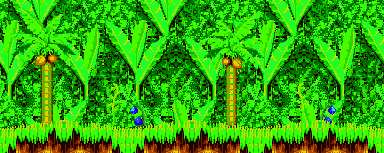
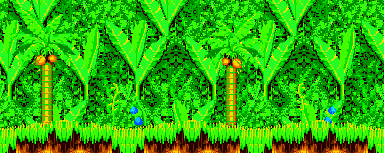
Enhance color vibrancy across Sonic sprites and Angel Island background

diff --git a/apps/sonic3clk/app.js b/apps/sonic3clk/app.js
@@ -1,7 +1,7 @@
 const vw = g.getWidth();
 const bgWidth = 384;
 
-const sonicPalette = new Uint16Array(E.toArrayBuffer(E.toFlatString(atob("AAAAAFGM171ps8JxIANABR8AFQATMBP4APiy/eD///8="))));
+const sonicPalette = new Uint16Array(E.toArrayBuffer(E.toFlatString(atob("AAAAAFGM170Dy8GJIANABd8FvwITMBP4APhJ/eD///8="))));
 const sonic = {
   bpp: 4,
   transparent: 1,
@@ -131,11 +131,13 @@ const waitingBuffers = [
   },
 ];
 
+const bgPalette = new Uint16Array(E.toArrayBuffer(E.toFlatString(atob("AAAAIEAEoAUAB+BH5CcgaYDCwPPA/uD/vwLfBf8H//8="))));
 const bg = {
   width: 384,
   height: 153,
   bpp: 4,
[1 lines of base64/hex data omitted]
+  palette: bgPalette,
[1 lines of base64/hex data omitted]
 };
 
 const topSpeed = 15;
@@ -367,7 +369,7 @@ const settingsMenu = {
   },
 };
 
-g.setTheme({ bg: "#006600", fg: "#fff", dark: true }).clear();
+g.setTheme({ bg: "#008800", fg: "#fff", dark: true }).clear();
 
 Bangle.on("lock", (locked) => {
   if (!isSettings) {

diff --git a/apps/sonic3clk/tools/sprite-tool.js b/apps/sonic3clk/tools/sprite-tool.js
@@ -42,18 +42,37 @@ const SONIC_PALETTE = [
   0x000000, // 1: Transparent
   0x888888, // 2: Grey
   0xbbbbbb, // 3: Light Grey
-  0xB46C48, // 4: Skin Shadow (#B46C48)
-  0x703810, // 5: Deep Skin Crease Shadow (#703810)
+  0xC86018, // 4: Skin Shadow (#C86018 - warm caramel shadow)
+  0x883808, // 5: Deep Skin Crease Shadow (#883808 - warm brown)
   0x006600, // 6: Green
   0x00aa00, // 7: Bright Green
-  0x0000FF, // 8: Highlight Blue (#0000FF - 100% Solid Blue, 0% Red, 0% Green)
-  0x0000AA, // 9: Body Blue (#0000AA - Deep Blue, 0% Red, 0% Green)
+  0x00B8FF, // 8: Highlight Blue (#00B8FF - bright electric azure, 0% Red)
+  0x0055FF, // 9: Body Blue (#0055FF - vivid cobalt blue, 0% Red)
   0x330099, // 10: Deep Purple
   0xff0099, // 11: Pink
   0xFC0000, // 12: Shoe Red (#FC0000)
-  0xFCB490, // 13: Skin Peach (#FCB490 - Sonic 3 peach skin)
+  0xFFA848, // 13: Skin Peach (#FFA848 - vibrant golden peach)
   0xffff00, // 14: Buckle Yellow (#ffff00)
   0xffffff  // 15: White (#ffffff)
+];
+
+const BG_PALETTE = [
+  0x000000, // 0: Black outline / deep shadow
+  0x240000, // 1: Soil / deep root shadow
+  0x008800, // 2: Deep canopy shadow (rich forest green)
+  0x00B400, // 3: Mid canopy green
+  0x00E000, // 4: Lush emerald canopy green
+  0x44FC00, // 5: Vibrant lime canopy highlight
+  0x24FC24, // 6: Bright mint canopy highlight
+  0x6C2400, // 7: Dark trunk bark shadow
+  0xC05000, // 8: Warm trunk brown
+  0xF07800, // 9: Bright golden trunk wood
+  0xFFD800, // 10: Golden sand / grass flower
+  0xFFFF00, // 11: Vibrant sunny yellow
+  0x0055FF, // 12: Vibrant blue flower
+  0x00B8FF, // 13: Bright azure flower highlight
+  0x00FCFC, // 14: Electric cyan flower center
+  0xFFFFFF  // 15: White cloud / sparkle
 ];
 
 const WEB = [
@@ -144,7 +163,7 @@ function encodePNGToHeatshrinkB64(inPath, type = "sprite", targetBpp, targetTran
   const transparent = targetTransparent !== undefined ? targetTransparent : (type === "bg" ? undefined : 1);
 
   // Build palette where the transparent index is excluded from opaque pixel matching
-  const basePalette = type === "sprite" ? SONIC_PALETTE : (bpp === 4 ? MAC16 : WEB);
+  const basePalette = type === "sprite" ? SONIC_PALETTE : (type === "bg" ? BG_PALETTE : (bpp === 4 ? MAC16 : WEB));
   const palette = basePalette.slice();
   if (transparent !== undefined && transparent < palette.length) {
     palette[transparent] = null;
@@ -318,10 +337,16 @@ function pack() {
   block += `];\n\n`;
 
   const transLine = bgEnc.transparent !== undefined ? `  transparent: ${bgEnc.transparent},\n` : "";
-  block += `const bg = {\n  width: ${bgEnc.width},\n  height: ${bgEnc.height},\n  bpp: ${bgEnc.bpp},\n${transLine}  buffer: require("heatshrink").decompress(atob("${bgEnc.b64}")),\n};`;
+  block += `const bgPalette = new Uint16Array(E.toArrayBuffer(E.toFlatString(atob("AAAAIEAEoAUAB+BH5CcgaYDCwPPA/uD/vwLfBf8H//8="))));\n`;
+  block += `const bg = {\n  width: ${bgEnc.width},\n  height: ${bgEnc.height},\n  bpp: ${bgEnc.bpp},\n  palette: bgPalette,\n${transLine}  buffer: require("heatshrink").decompress(atob("${bgEnc.b64}")),\n};`;
 
   let code = fs.readFileSync(APP_JS, "utf8");
   code = code.replace(/const bgWidth = \d+;/, `const bgWidth = ${bgEnc.width};`);
+  code = code.replace(
+    /const sonicPalette = new Uint16Array\(E\.toArrayBuffer\(E\.toFlatString\(atob\("[^"]+"\)\)\)\);/,
+    'const sonicPalette = new Uint16Array(E.toArrayBuffer(E.toFlatString(atob("AAAAAFGM170Dy8GJIANABd8FvwITMBP4APhJ/eD///8="))));'
+  );
+  code = code.replace(/g\.setTheme\(\{ bg: "[^"]+", fg: "#fff", dark: true \}\)\.clear\(\);/, 'g.setTheme({ bg: "#008800", fg: "#fff", dark: true }).clear();');
   code = code.replace(/const defaultSonic =[\s\S]*?(?=\n\nconst topSpeed =)/, block);
   fs.writeFileSync(APP_JS, code);
   console.log(`Updated ${APP_JS} from PNGs in ${ASSETS_DIR}`);

diff --git a/apps/sonic3clk/app-icon.js b/apps/sonic3clk/app-icon.js
@@ -1,1 +1,1 @@
[2 lines of base64/hex data omitted]
